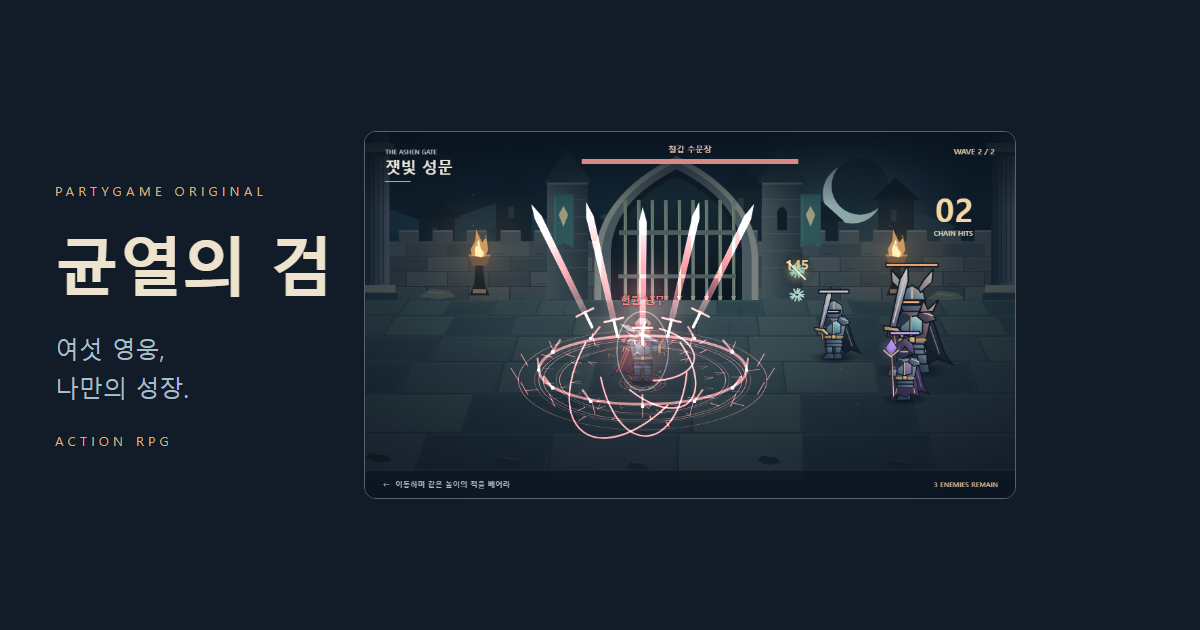
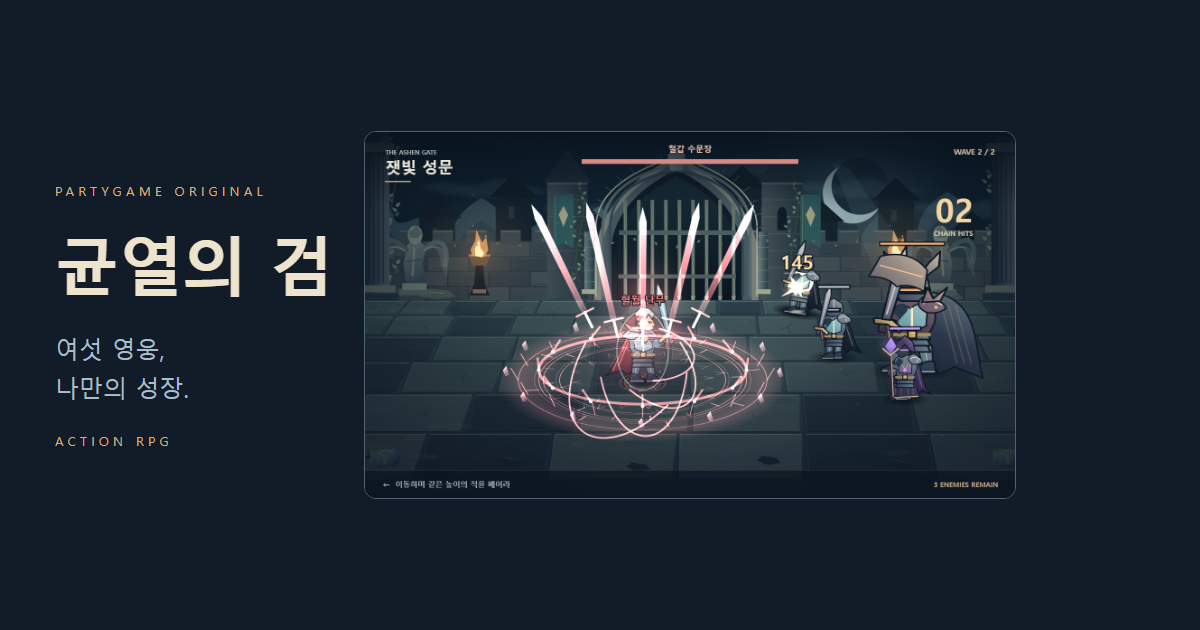
Polish Rift Blade death effects and refresh game artwork

diff --git a/scripts/rift-blade.js b/scripts/rift-blade.js
@@ -29,7 +29,7 @@ function riftPlate(points,colors,outline='#101923',width=1.3){const ys=points.ma
 function riftGlow(x,y,r,color){const g=ctx.createRadialGradient(x,y,0,x,y,r);g.addColorStop(0,color);g.addColorStop(1,'#00000000');ctx.fillStyle=g;ctx.fillRect(x-r,y-r,r*2,r*2);}
 function riftRune(x,y,r,color,time=0){ctx.save();ctx.translate(x,y);ctx.scale(1,.4);ctx.rotate(time*.3);ctx.strokeStyle=color;ctx.lineWidth=1;for(const size of [r,r*.8]){ctx.beginPath();ctx.arc(0,0,size,0,Math.PI*2);ctx.stroke();}for(let i=0;i<8;i++){ctx.rotate(Math.PI/4);riftLine(r*.86,0,r*.96,0,2,color);riftLine(r*.6,-5,r*.68,0,1,color);riftLine(r*.68,0,r*.6,5,1,color);}ctx.restore();}
 function riftImpact(e){const q=1-e.life/e.max,boss=e.targetType==='boss',radius=(boss?55:38)*q,seed=e.seed||0;ctx.save();ctx.translate(e.x,e.y);ctx.globalCompositeOperation='lighter';riftGlow(0,0,30*(1-q)+5,'#ffdd9855');for(let i=0;i<14;i++){const a=i*2.399+seed*.07,speed=.6+(i%5)*.15,x=Math.cos(a)*radius*speed,y=Math.sin(a)*radius*speed*.7+q*q*15;riftLine(x,y,x+Math.cos(a)*(8-i%3)*(1-q),y+Math.sin(a)*6*(1-q),i%3===0?2:1,i%2?'#fff2bd':e.color);}ctx.globalAlpha*=Math.max(0,1-q*2);ctx.rotate(-.5);riftPoly([[-27,0],[-6,-3],[0,-19],[4,-3],[24,0],[4,3],[0,16],[-4,3]],'#fff8e5');ctx.restore();}
-function riftDeath(e){const q=1-e.life/e.max;ctx.save();if(e.actor){ctx.globalAlpha=Math.max(0,1-q*q);const direction=e.actor.face||-1;ctx.translate(e.x,e.y);ctx.rotate(-direction*Math.min(1,q*1.8)*1.25);ctx.scale(1,1-q*.15);ctx.translate(-e.x,-e.y);riftActor({...e.actor,visualGhost:true},false);}ctx.restore();ctx.save();for(let i=0;i<9;i++){const a=i*2.4+(e.seed||0),x=e.x+Math.cos(a)*q*55,y=e.y+Math.sin(a)*q*13;ctx.globalAlpha=(1-q)*.28;ctx.fillStyle='#adbaa9';ctx.beginPath();ctx.ellipse(x,y,6+q*8,2+q*2,0,0,Math.PI*2);ctx.fill();}ctx.restore();}
+function riftDeath(e){const q=1-e.life/e.max;ctx.save();if(e.actor){ctx.globalAlpha=Math.max(0,1-q*q);const direction=e.actor.face||-1;ctx.translate(e.x,e.y);ctx.rotate(-direction*Math.min(1,q*1.8)*1.25);ctx.scale(1,1-q*.15);ctx.translate(-e.x,-e.y);riftActor({...e.actor,flash:Math.max(0,(e.actor.flash||0)-(e.max-e.life)),visualGhost:true},false);}ctx.restore();ctx.save();for(let i=0;i<9;i++){const a=i*2.4+(e.seed||0),x=e.x+Math.cos(a)*q*55,y=e.y+Math.sin(a)*q*13;ctx.globalAlpha=(1-q)*.28;ctx.fillStyle='#adbaa9';ctx.beginPath();ctx.ellipse(x,y,6+q*8,2+q*2,0,0,Math.PI*2);ctx.fill();}ctx.restore();}
 function riftDamageText(e){const q=1-e.life/e.max,numeric=/^\d+$/.test(e.text),large=numeric&&Number(e.text)>=100,size=large?28:numeric?21:15,x=e.x,y=e.y-q*40;ctx.save();ctx.font=`900 ${size}px system-ui`;ctx.textAlign='center';ctx.lineWidth=3;ctx.strokeStyle='#101827';ctx.lineJoin='round';ctx.strokeText(e.text,x,y);ctx.fillStyle=large?'#ffe4aa':e.color;ctx.fillText(e.text,x,y);if(large){ctx.globalAlpha*=.35;ctx.fillStyle='#fff5ce';ctx.fillRect(x-size*.7,y+5,size*1.4,1);}ctx.restore();}
 function riftBackground(){
  const index=rift.stage,stage=RIFT_STAGES[index],t=rift.time;

diff --git a/rules/games/rift-blade.md b/rules/games/rift-blade.md
@@ -15,6 +15,7 @@
 - 던전 사이에는 별도의 공격/체력/마력 강화 선택. 최대 3개 던전 클리어 또는 체력 소진 시 결과 화면.
 - 진행은 이번 원정 한정. 최고 점수만 localStorage `riftBladeBest` 저장. 온라인 랭킹 없음.
 - 순수 규칙 `scripts/rift-core.js`, Canvas 표현·입력 `scripts/rift-blade.js`, 스타일 `styles/rift-blade.css`.
-- 그래픽은 외곽선·금속 명암·관절 동작이 있는 직업별 캐릭터, 단계별 보스 장식, 원근 바닥과 3종 던전 건축으로 구성. 정적 배경은 던전별 Canvas 캐시, 불꽃·안개·검격·광선·지면 파동·레벨업 효과는 게임 시간 기반으로 정지 상태에서 함께 멈춤. 고밀도 화면은 최대 2배 해상도로 렌더링.
+- 그래픽은 직업별 체형·곡선 갑옷·얼굴·손·옷자락과 관절 동작이 있는 확대 캐릭터, 단계별 대형 보스 장식으로 구성. 성문 조각상·풍화 석재, 회랑 스테인드글라스·수정, 왕좌 문양·휘장과 원근 바닥·빛줄기로 세 던전을 구분. 정적 배경은 던전별 Canvas 캐시, 화면은 1.5~2배 해상도로 렌더링.
+- 검격 면·마력 광선·화살 잔상·타격 불꽃과 외곽선 피해 숫자로 전투 가독성 강화. 사망 시 적의 외형을 복사하여 기울어 쓰러지고 먼지와 함께 사라짐. 배경·공격·사망·레벨업 연출은 게임 시간과 효과 수명 기반으로 정지 상태에서 함께 멈춤.
 - 창 전환·포커스 이탈 시 자동 일시정지, 입력 해제. 일시정지·강화·결과 화면에서는 전투 시간 정지.
 - 검증: `node scripts/test-rift-blade.cjs`, Playwright 설치 경로를 NODE_PATH로 지정 후 `node scripts/test-rift-blade-browser.cjs`.
